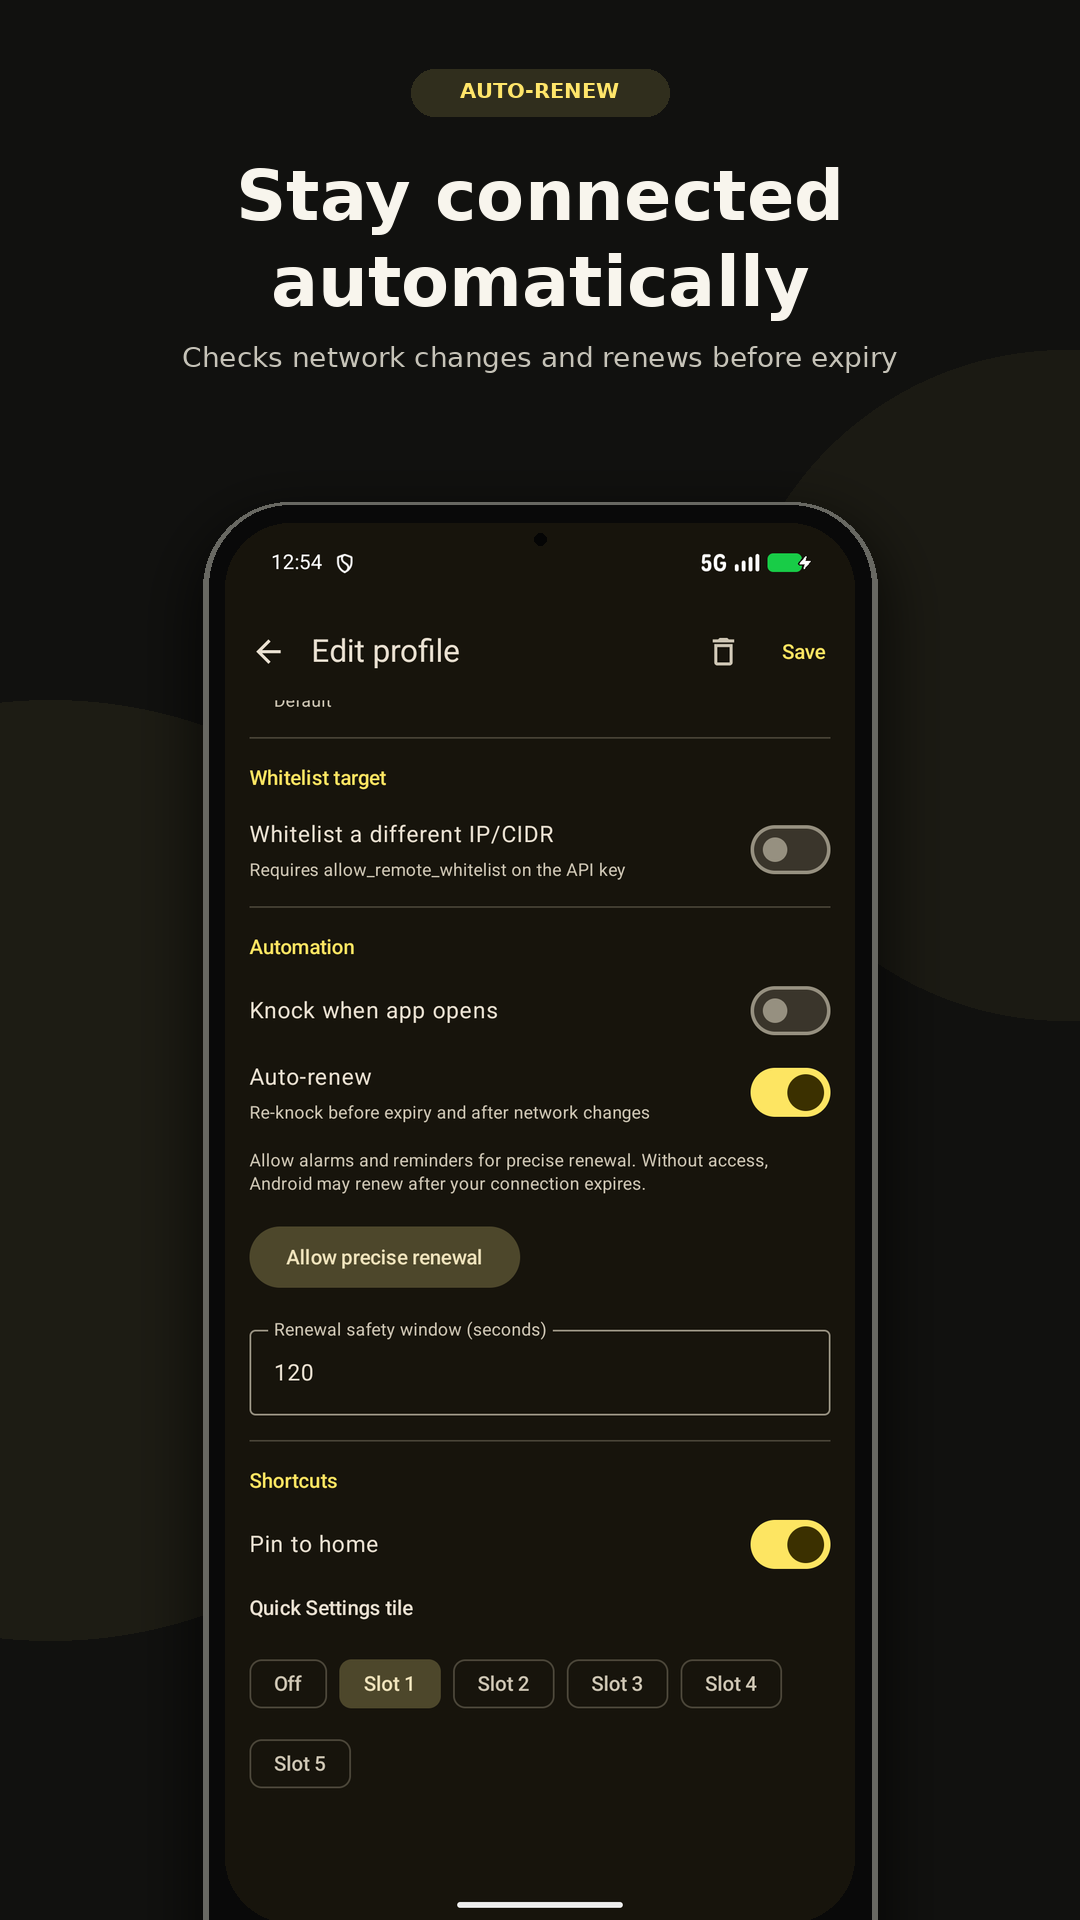
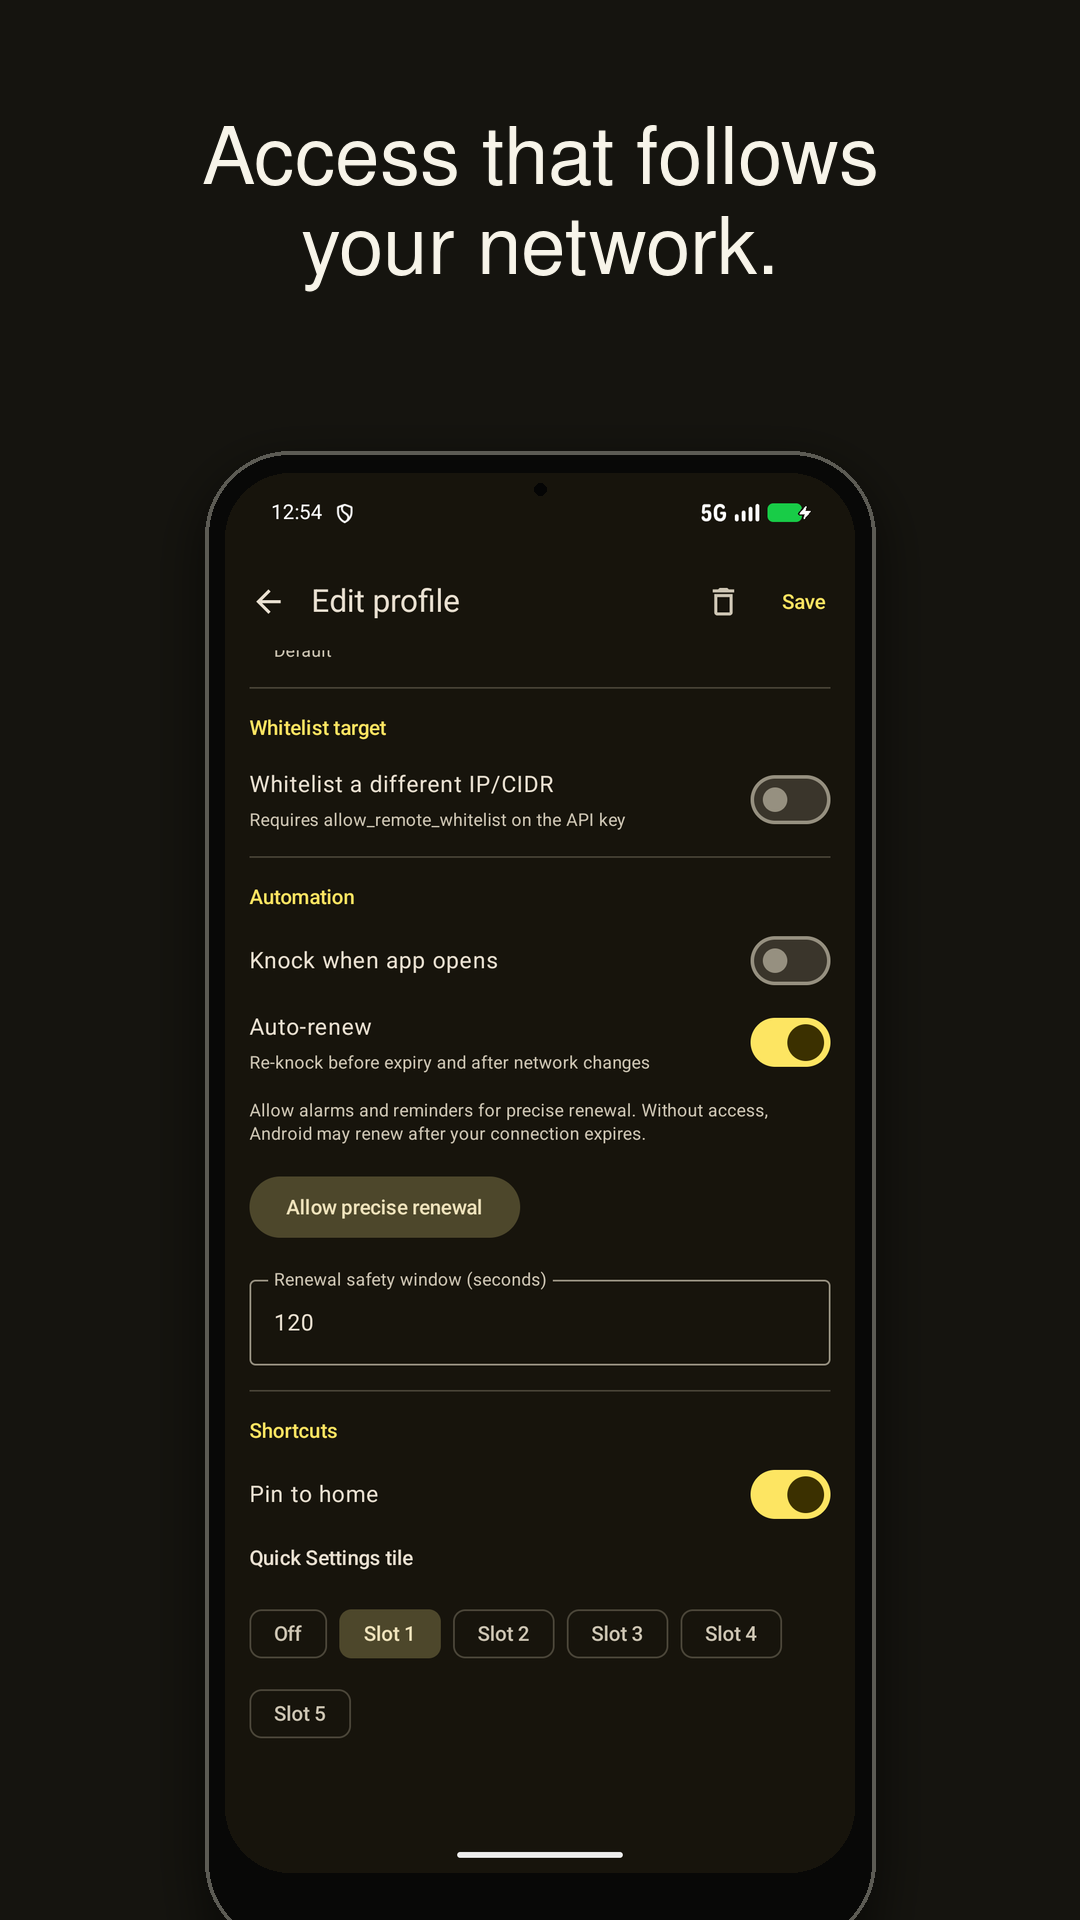
Refine Play listing screenshot design

diff --git a/docs/play-store/render.py b/docs/play-store/render.py
@@ -1,44 +1,58 @@
 #!/usr/bin/env python3
 """Render Play listing images from emulator captures. Requires Pillow."""
 from pathlib import Path
-from PIL import Image, ImageDraw, ImageFont, ImageFilter
+from PIL import Image, ImageDraw, ImageFont, ImageFilter, ImageEnhance
 
 ROOT = Path(__file__).resolve().parent
 OUT = ROOT / 'screenshots'
 OUT.mkdir(exist_ok=True)
-BOLD = '/usr/share/fonts/truetype/dejavu/DejaVuSans-Bold.ttf'
-REGULAR = '/usr/share/fonts/truetype/dejavu/DejaVuSans.ttf'
+FONT = '/usr/share/fonts/opentype/urw-base35/NimbusSans-Regular.otf'
 
-def font(size, bold=False): return ImageFont.truetype(BOLD if bold else REGULAR, size)
-def centered(draw, y, text, f, fill):
-    box = draw.textbbox((0, 0), text, font=f)
-    draw.text(((1080-(box[2]-box[0]))/2, y), text, font=f, fill=fill)
+def center(draw, y, text, font):
+    box = draw.textbbox((0, 0), text, font=font)
+    draw.text(((1080 - (box[2] - box[0])) / 2, y), text, font=font, fill='#f7f4e9')
 
-def render(source, name, kicker, lines, sub):
-    image = Image.new('RGB', (1080, 1920), '#11110f')
-    d = ImageDraw.Draw(image)
-    # Quiet warm geometry echoes the app's yellow accent.
-    d.ellipse((-420, 700, 520, 1640), fill='#1d1c14')
-    d.ellipse((730, 350, 1400, 1020), fill='#1b1a13')
-    d.rounded_rectangle((411, 69, 669, 116), 24, fill='#302e1d')
-    centered(d, 78, kicker, font(21, True), '#ffe66a')
-    for i, line in enumerate(lines): centered(d, 155+i*86, line, font(70, True), '#f8f5ed')
-    centered(d, 155+len(lines)*86+14, sub, font(28), '#c7c4b9')
-    # Pixel 7 front profile: rounded corners, dark bezel and centred camera.
-    x, y, w, h = 209, 505, 662, 1488
+def rounded_paste(canvas, img, xy, radius):
+    mask = Image.new('L', img.size)
+    ImageDraw.Draw(mask).rounded_rectangle((0, 0, img.width - 1, img.height - 1), radius, fill=255)
+    canvas.paste(img, xy, mask)
+
+def render(source, name, lines, focus=None):
+    image = Image.new('RGBA', (1080, 1920), '#15140f')
+    draw = ImageDraw.Draw(image)
+    headline = ImageFont.truetype(FONT, 80)
+    for i, line in enumerate(lines):
+        center(draw, 125 + i * 90, line, headline)
+
+    # A simplified Pixel 7 front, matching the emulator's device profile.
+    x, y, w, h = 209, 455, 662, 1488
     shadow = Image.new('RGBA', image.size)
-    sd = ImageDraw.Draw(shadow); sd.rounded_rectangle((x-15,y+12,x+w+15,y+h+25), 92, fill=(0,0,0,160))
-    image = Image.alpha_composite(image.convert('RGBA'), shadow.filter(ImageFilter.GaussianBlur(28)))
-    d = ImageDraw.Draw(image)
-    d.rounded_rectangle((x-6,y-3,x+w+6,y+h+3), 86, fill='#686862')
-    d.rounded_rectangle((x,y,x+w,y+h), 81, fill='#090909')
-    shot = Image.open(ROOT/'source'/source).convert('RGB').resize((630, 1400), Image.Resampling.LANCZOS)
-    mask = Image.new('L', shot.size); ImageDraw.Draw(mask).rounded_rectangle((0,0,629,1399), 65, fill=255)
-    image.paste(shot, (x+16,y+18), mask)
-    d = ImageDraw.Draw(image); d.ellipse((534,y+28,546,y+40), fill='#050505')
-    image.convert('RGB').save(OUT/name, optimize=True)
+    ImageDraw.Draw(shadow).rounded_rectangle((x - 9, y + 10, x + w + 9, y + h + 20), 90, fill=(0, 0, 0, 130))
+    image = Image.alpha_composite(image, shadow.filter(ImageFilter.GaussianBlur(24)))
+    draw = ImageDraw.Draw(image)
+    draw.rounded_rectangle((x - 4, y - 4, x + w + 4, y + h + 4), 85, fill='#5c5b54')
+    draw.rounded_rectangle((x, y, x + w, y + h), 80, fill='#080807')
+    original = Image.open(ROOT / 'source' / source).convert('RGB')
+    screen = original.resize((630, 1400), Image.Resampling.LANCZOS)
+    if focus:
+        # De-emphasize the rest of the system shade; the enlarged detail below
+        # is an unaltered crop from the same emulator screenshot.
+        screen = ImageEnhance.Brightness(screen.filter(ImageFilter.GaussianBlur(18))).enhance(.42)
+    rounded_paste(image, screen, (x + 16, y + 18), 65)
+    draw = ImageDraw.Draw(image)
+    draw.ellipse((534, y + 28, 546, y + 40), fill='#050505')
+    if focus:
+        box, width, top = focus
+        crop = original.crop(box)
+        crop = crop.resize((width, round(crop.height * width / crop.width)), Image.Resampling.LANCZOS)
+        left = (1080 - width) // 2
+        shade = Image.new('RGBA', image.size)
+        ImageDraw.Draw(shade).rounded_rectangle((left-4, top+10, left+width+4, top+crop.height+14), 55, fill=(0, 0, 0, 160))
+        image = Image.alpha_composite(image, shade.filter(ImageFilter.GaussianBlur(22)))
+        rounded_paste(image, crop, (left, top), 45)
+    image.convert('RGB').save(OUT / name, optimize=True)
 
-render('home.png','01-access.png','KNOCKER', ['Your server,', 'one tap away'], 'Keep access close at hand')
-render('tile.png','02-quick-settings.png','QUICK SETTINGS', ['Knock without', 'opening the app'], 'A shortcut right in your shade')
-render('renew.png','03-auto-renew.png','AUTO-RENEW', ['Stay connected', 'automatically'], 'Checks network changes and renews before expiry')
-render('notification.png','04-notifications.png','NOTIFICATIONS', ['See your latest', 'knock at a glance'], 'Get updates when a background knock finishes')
+render('home.png', '01-access.png', ['Your server.', 'Ready when you are.'])
+render('tile.png', '02-quick-settings.png', ['A knock is just', 'a swipe away.'], ((40, 1015, 535, 1210), 860, 1010))
+render('renew.png', '03-auto-renew.png', ['Access that follows', 'your network.'])
+render('notification.png', '04-notifications.png', ['Know when', 'your knock lands.'], ((40, 1120, 1040, 1425), 950, 990))

diff --git a/docs/play-store/README.md b/docs/play-store/README.md
@@ -2,4 +2,4 @@
 
 The four 1080 × 1920 PNGs in `screenshots/` are ordered for the listing. They use dark-mode captures from the Pixel 7 Android 16 emulator and a simplified Pixel 7 front frame. The example profile used a temporary demo server and the documentation address `203.0.113.42`; the server and key were disposable. The notification capture was produced by a Quick Settings knock against that server. Background renewals use the same notification presentation.
 
-The original emulator captures are in `source/`. To regenerate the artwork on Linux, install Pillow and DejaVu Sans, then run `python3 docs/play-store/render.py` from the repository root. The source capture includes the temporary demo hostname; it is not a production endpoint.
+The original emulator captures are in `source/`. The Quick Settings and notification images use enlarged crops, with the surrounding shade blurred for emphasis. Android’s yellow Material You palette was selected on the emulator. To regenerate the artwork on Linux, install Pillow and Nimbus Sans (URW Base 35), then run `python3 docs/play-store/render.py` from the repository root. The source capture includes the temporary demo hostname; it is not a production endpoint.
